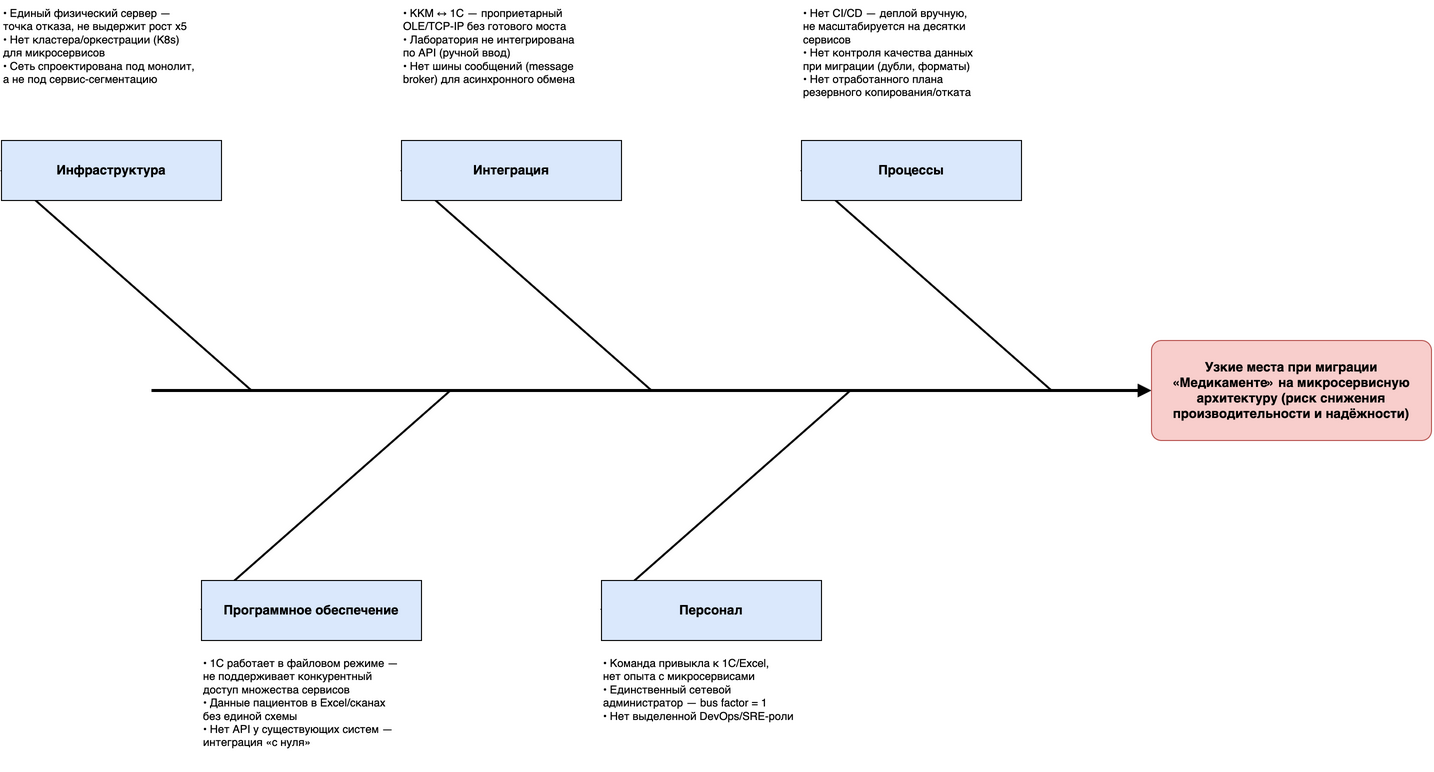
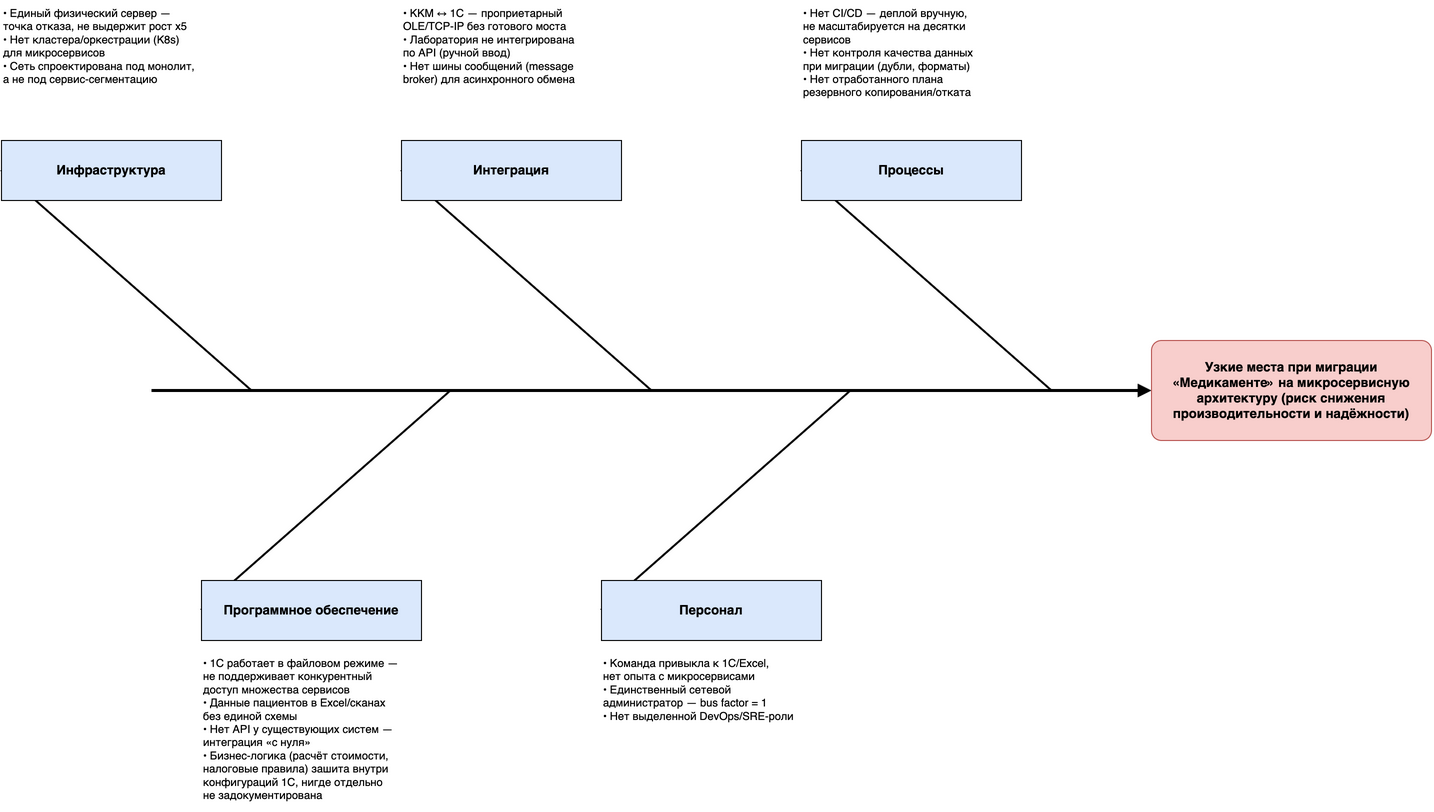
Задание 4: правки по ревью — добавлен риск миграции бизнес-логики 1С (явно упомянут в задании)

diff --git a/Task4/migration-bottlenecks-report.md b/Task4/migration-bottlenecks-report.md
@@ -15,6 +15,7 @@
 - 1С:Бухгалтерия и 1С:Торговля и склад работают в файловом режиме — не поддерживают конкурентный доступ множества сервисов, что делает их узким местом при интеграции с новой архитектурой.
 - Данные пациентов хранятся в Excel-файлах и сканах без единой схемы — риск потери целостности и трудоёмкость автоматической миграции в БД.
 - У существующих систем нет API — интеграцию с новыми сервисами придётся строить «с нуля», без готовых контрактов.
+- Бизнес-логика (расчёт стоимости услуг, порядок начисления и налоговые правила) зашита внутри конфигураций «1С:Бухгалтерия» — при миграции её нужно явно выделить и переписать в сервисах, риск потерять неочевидные правила, которые нигде не задокументированы отдельно от кода 1С.
 
 ### Интеграция
 - Обмен ККМ ↔ 1С:Бухгалтерия построен на проприетарном OLE/TCP-IP — нет готового моста к новым сервисам, потребуется отдельная разработка адаптера.
@@ -40,9 +41,10 @@
 | 3 | Развернуть отказоустойчивый кластер (несколько узлов + балансировщик) вместо единого физического сервера | Инфраструктура | Высокий |
 | 4 | Построить антикоррупционный слой (API-адаптер) поверх 1С вместо прямой миграции файлового режима | ПО, Интеграция | Высокий |
 | 5 | Ввести шину сообщений (message broker) для асинхронной интеграции старых и новых систем на переходный период | Интеграция | Высокий |
-| 6 | Провести пилотную миграцию одного домена (например, запись пациентов) перед полным переходом | Процессы, Персонал | Средний |
-| 7 | Внедрить CI/CD для новых микросервисов | Процессы | Средний |
-| 8 | Нанять или обучить DevOps/SRE-специалиста, снизить зависимость от единственного администратора сети | Персонал | Средний |
-| 9 | Провести поэтапное обучение персонала новому стеку вместо одномоментного перехода | Персонал | Средний |
+| 6 | Задокументировать бизнес-логику, зашитую в конфигурациях 1С (расчёт стоимости, налоговые правила), в виде явных спецификаций и тестов до переписывания в сервисах | ПО | Высокий |
+| 7 | Провести пилотную миграцию одного домена (например, запись пациентов) перед полным переходом | Процессы, Персонал | Средний |
+| 8 | Внедрить CI/CD для новых микросервисов | Процессы | Средний |
+| 9 | Нанять или обучить DevOps/SRE-специалиста, снизить зависимость от единственного администратора сети | Персонал | Средний |
+| 10 | Провести поэтапное обучение персонала новому стеку вместо одномоментного перехода | Персонал | Средний |
 
-Меры 1–5 отмечены как высокоприоритетные, поскольку без них риск потери данных или отказа системы при миграции критичен и напрямую влияет на работоспособность целевого решения. Меры 6–9 снижают операционные и кадровые риски и могут выполняться параллельно с мерами 1–5.
+Меры 1–6 отмечены как высокоприоритетные, поскольку без них риск потери данных, скрытой бизнес-логики или отказа системы при миграции критичен и напрямую влияет на работоспособность целевого решения. Меры 7–10 снижают операционные и кадровые риски и могут выполняться параллельно с мерами 1–6.
